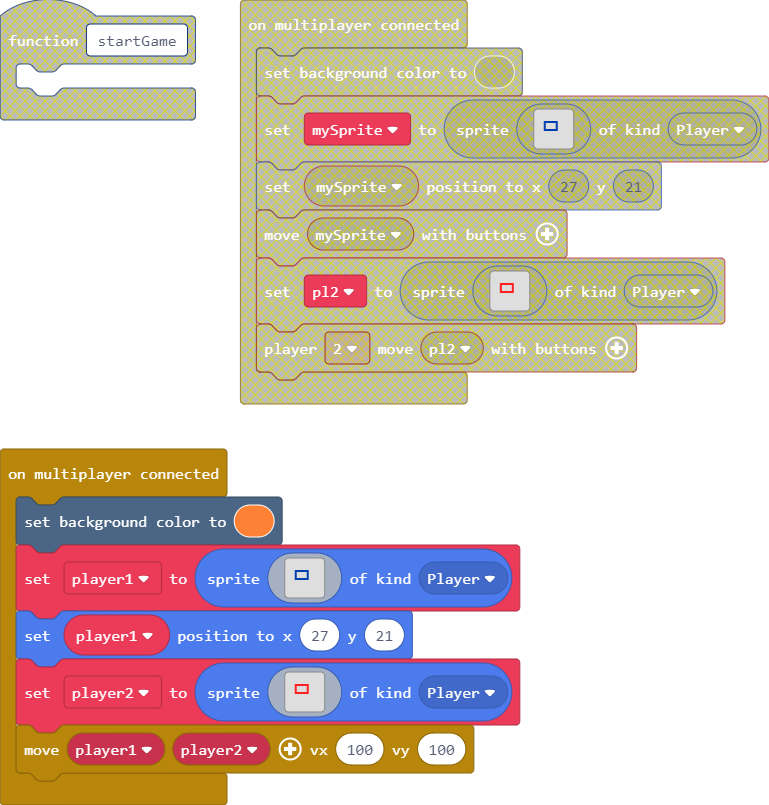
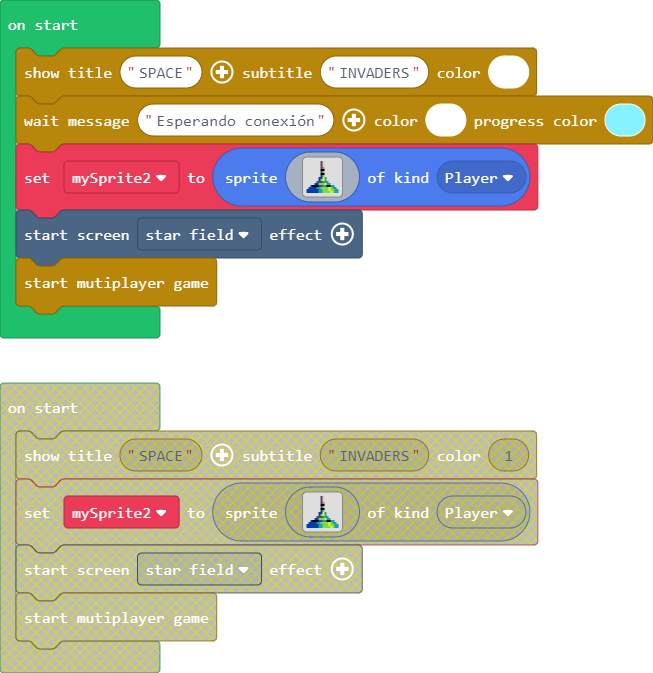
Update main.blocks, main.ts, multiplayer.ts

diff --git a/multiplayer.ts b/multiplayer.ts
@@ -25,6 +25,8 @@ namespace multiplayer {
     let funcOnConnected: () => void;
 
     let waitTitle = "", waitSubtitle = "", waitTitleColor = 1;
+    let waitMessageText = "", waitMessageColor = 8, waitProgressBarColor = 8;
+
 
     let pl1: Sprite, pl2: Sprite;
     let _vx: number = 100, _vy: number = 100;
@@ -59,7 +61,7 @@ namespace multiplayer {
     }
 
     // group="Gameplay"
-    //% blockId=drawTitle block="show title $text || subtitle $sub | color $color"
+    //% blockId=drawTitle block="show title $text || subtitle $sub | color %color=colorindexpicker"
     //% blockAllowMultiple=0
     //% color.defl=1
     //% color.min=1 color.max=15
@@ -70,6 +72,19 @@ namespace multiplayer {
         waitTitle = text;
         waitSubtitle = sub;
         waitTitleColor = color;
+    }
+
+    //% blockId=waitMessage block="wait message $text || color %color=colorindexpicker | progress color %barcolor=colorindexpicker"
+    //% blockAllowMultiple=0
+    //% color.defl=8
+    //% barcolor.defl=8
+    //% text.defl="Waiting for connection"
+    //% expandableArgumentMode="toggle"
+    //% inlineInputMode=inline
+    export function waitMessage(text: string, color: number=8, barcolor:number=8): void {
+        waitMessageText = text;
+        waitMessageColor = color;
+        waitProgressBarColor = barcolor;
     }
 
     // group="Gameplay"
@@ -172,13 +187,13 @@ function waitForOtherPlayer() {
         screen.printCenter(waitTitle, 10, waitTitleColor, image.font12);
         screen.printCenter(waitSubtitle, 26, waitTitleColor, image.font12);
 
-        screen.printCenter("Waiting for connection", 80, 9, image.font8);
+        screen.printCenter(waitMessageText, 80, waitMessageColor, image.font8);
 
         if (flip) {
-            screen.fillRect(30, 95, offset, 2, 3);
+            screen.fillRect(30, 95, offset, 3, waitProgressBarColor);
         }
         else {
-            screen.fillRect(30 + offset, 95, 100 - offset, 2, 3);
+            screen.fillRect(30 + offset, 95, 100 - offset, 3, waitProgressBarColor);
         }
 
         offset = (offset + 1) % 100;

diff --git a/main.ts b/main.ts
@@ -42,6 +42,7 @@ multiplayer.onConnected(function () {
 let player2: Sprite = null
 let player1: Sprite = null
 multiplayer.drawTitle("SPACE", "INVADERS", 1)
+multiplayer.waitMessage("Esperando conexión", 1, 9)
 let mySprite2 = sprites.create(img`
 . . . . . . . c d . . . . . . . 
 . . . . . . . c d . . . . . . . 
